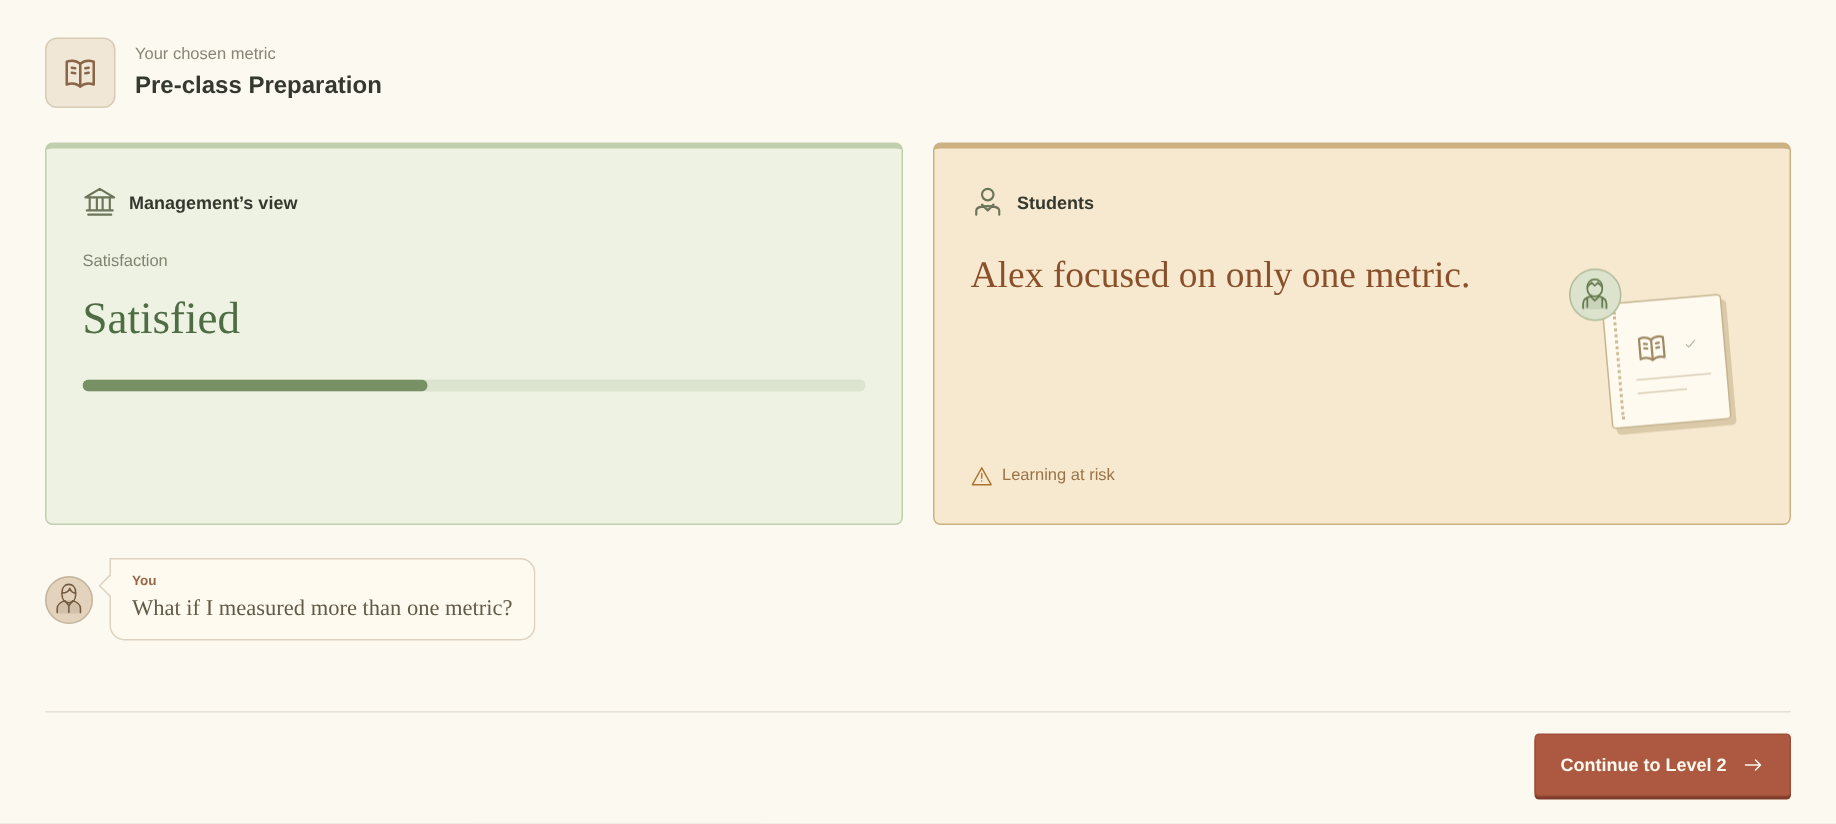
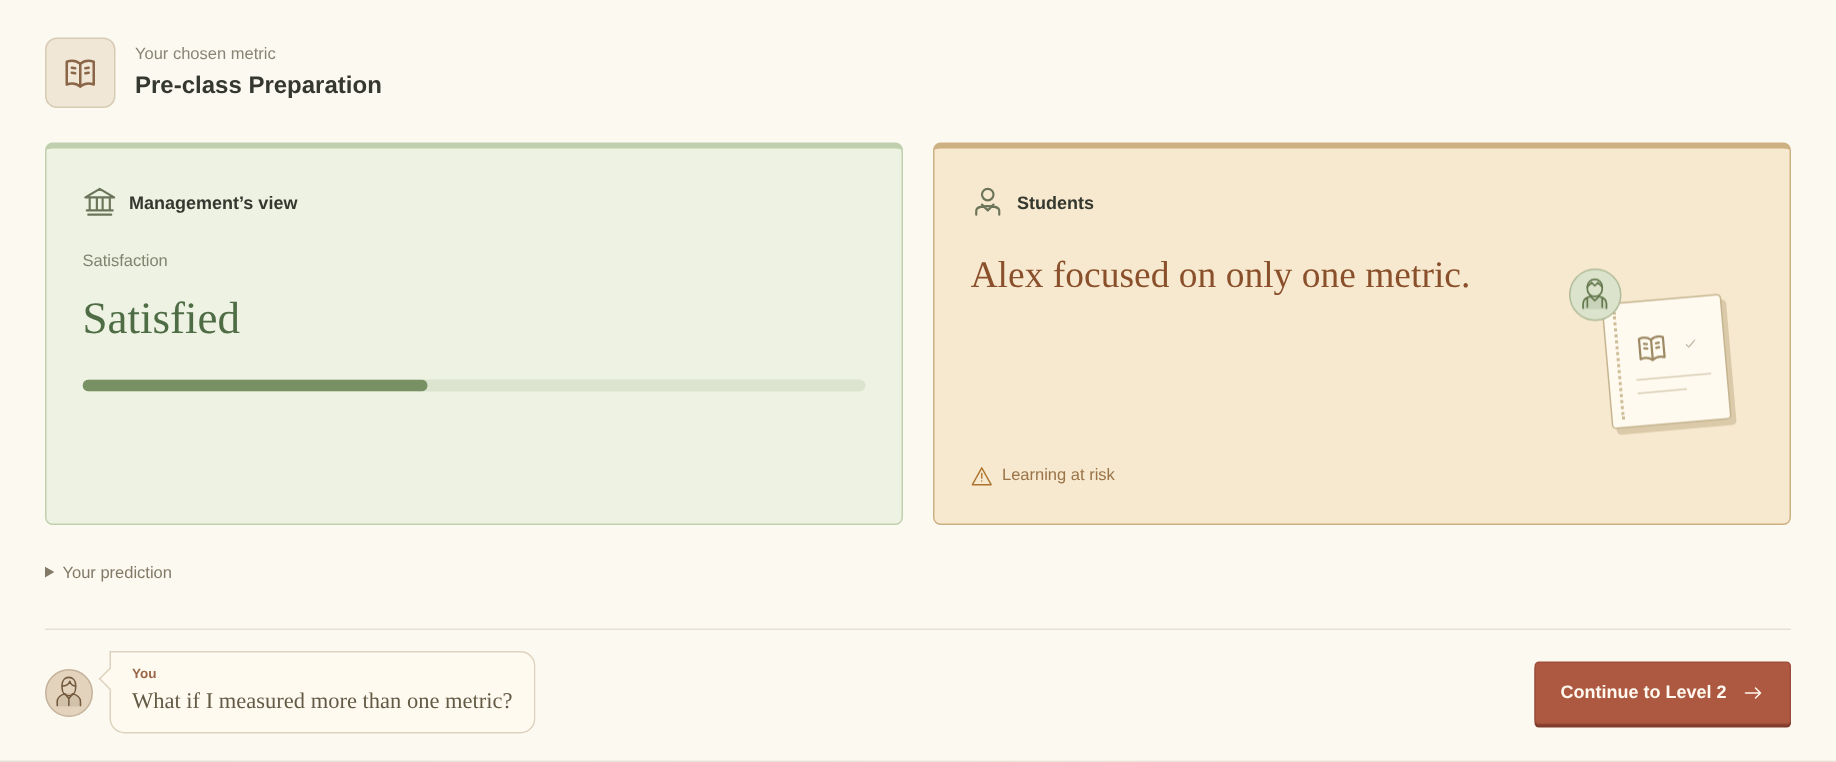
Correct result teacher placement and show retained prediction in preview

diff --git a/src/levels/level1/Settlement.tsx b/src/levels/level1/Settlement.tsx
@@ -65,6 +65,7 @@ export default function Settlement({ result, playerName = 'You', onTryAnother, o
       <blockquote>{prediction}</blockquote>
     </details>}
 
+    <footer className="action-row l1-settlement-actions">
     <section className="conversation l1-settlement-teacher" aria-label="Teacher reflection">
       <div className="dialogue-character maya-character">
         <span className="avatar maya-avatar" aria-hidden="true"><CharacterPortrait role="teacher" /></span>
@@ -72,7 +73,6 @@ export default function Settlement({ result, playerName = 'You', onTryAnother, o
       </div>
     </section>
 
-    <footer className="action-row only-action l1-settlement-actions">
       <button className="button primary-button" type="button" onClick={onContinue || onTryAnother} disabled={!onContinue && !onTryAnother}>{onContinue ? 'Continue to Level 2' : 'Try another metric'}<Icon name="arrow" /></button>
     </footer>
   </section>;

diff --git a/scripts/level1-result-copy-review/entry.tsx b/scripts/level1-result-copy-review/entry.tsx
@@ -2,4 +2,4 @@ import React from 'react';
 import {createRoot} from 'react-dom/client';
 import Settlement from '../../src/levels/level1/Settlement';
 import '../../src/shared/styles/base.css';
-createRoot(document.getElementById('root')!).render(<main className="game-page level-one" style={{width:'calc(100% - 80px)',maxWidth:1280,margin:'40px auto'}}><Settlement result={{metricId:'prep',prediction:'',reportedScore:{before:40,after:90,target:80}}} onContinue={()=>{}} /></main>);
+createRoot(document.getElementById('root')!).render(<main className="game-page level-one" style={{width:'calc(100% - 80px)',maxWidth:1280,margin:'40px auto'}}><Settlement result={{metricId:'prep',prediction:'Students will prepare more carefully before class.',reportedScore:{before:40,after:90,target:80}}} onContinue={()=>{}} /></main>);

diff --git a/src/levels/level1/settlement.css b/src/levels/level1/settlement.css
@@ -179,4 +179,10 @@
   .l1-settlement .settlement-student-visual { animation: none; }
 }
 
-.l1-settlement .l1-settlement-teacher { margin-top: 22px; }
+.l1-settlement .l1-settlement-teacher { min-height: 0; margin: 0; }
+.l1-settlement .l1-settlement-teacher .dialogue-character { max-width: 100%; }
+.l1-settlement .l1-settlement-actions { align-items: center; }
+@media (max-width: 650px) {
+  .l1-settlement .l1-settlement-actions { flex-wrap: wrap; }
+  .l1-settlement .l1-settlement-actions > .primary-button { margin-left: auto; }
+}

diff --git a/scripts/level1-result-copy-review/capture.py b/scripts/level1-result-copy-review/capture.py
@@ -16,7 +16,15 @@ with sync_playwright() as p:
  page.goto(f'http://127.0.0.1:{server.server_port}',wait_until='networkidle')
  expect(page.locator('.student-behaviour')).to_have_text('Alex focused on only one metric.')
  expect(page.locator('.l1-settlement-teacher p')).to_have_text('What if I measured more than one metric?')
+ expect(page.locator('.l1-settlement-prediction summary')).to_have_text('Your prediction')
+ assert not page.locator('.l1-settlement-prediction').evaluate('e=>e.open')
  page.wait_for_timeout(2800)
+ bubble=page.locator('.l1-settlement-teacher').bounding_box()
+ button=page.locator('.l1-settlement-actions > button').bounding_box()
+ assert abs((bubble['y']+bubble['height']/2)-(button['y']+button['height']/2))<2
+ page.locator('.l1-settlement-prediction summary').click()
+ expect(page.locator('.l1-settlement-prediction blockquote')).to_be_visible()
+ page.locator('.l1-settlement-prediction summary').click()
  assert not errors,errors
  page.locator('.l1-settlement').screenshot(path=str(ROOT/'play/Level1-result-copy-preview.png'))
  browser.close()

diff --git a/AGENTS.md b/AGENTS.md
@@ -5,6 +5,9 @@
   "What if I measured more than one metric?" Retain existing card visuals.
 - Source uses an optional PerspectivePanel behaviour override for the settlement;
   do not alter metric-specific cinematic scripts or other observation content.
+- Corrected preview: teacher bubble belongs in the bottom action row, left of
+  the Continue button. Preserve Your prediction and its original collapsed details;
+  preview must use a nonempty prediction so this control is visible.
 - Preview: play/Level1-result-copy-preview.png; reproduction under
   scripts/level1-result-copy-review/. TypeScript and actual rendered text checked.
 - Wait for approval before regenerating formal game/classroom packages.
